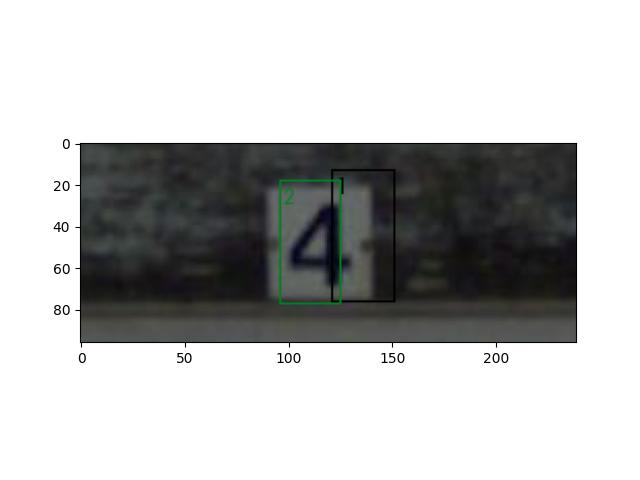
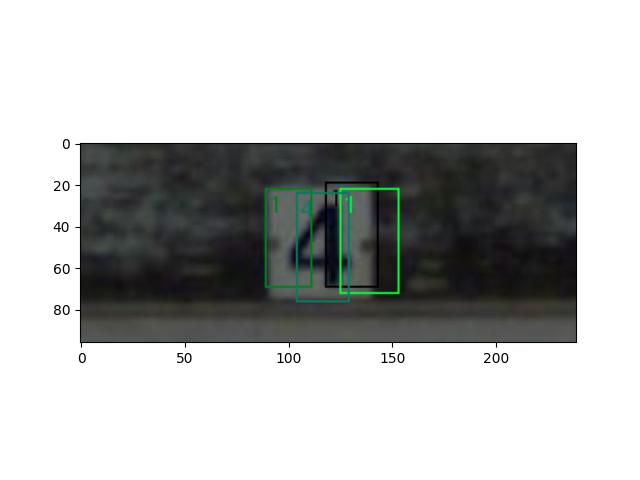
added dropout

Changed region(s): [[0.4062, 0.3438, 0.625, 0.6562]]

diff --git a/mini_yolov3/trainer.py b/mini_yolov3/trainer.py
@@ -110,8 +110,13 @@ class Trainer:
         os.makedirs(self.save_dir, exist_ok=True)
         checkpoints_dir = os.path.join(self.save_dir, "checkpoints")
         results_dir = os.path.join(self.save_dir, "results")
+        model_config_path = os.path.join(self.save_dir, "model_config.json")
         os.makedirs(checkpoints_dir, exist_ok=True)
         os.makedirs(results_dir, exist_ok=True)
+
+        # save model config
+        with open(model_config_path, "w") as f:
+            json.dump(self.model.config, f)
 
         loss_plot_path = os.path.join(self.save_dir, "loss.png")
 
@@ -182,13 +187,7 @@ class Trainer:
 
                     losses.append(loss.item())
 
-                    # plt.clf()
-                    # plt.title("Log Loss")
-                    # plt.semilogy(losses, label="Train Loss")
-                    # plt.savefig(loss_plot_path)
-
                 epoch_loss /= len(self.train_loader)
-                # losses.append(epoch_loss)
 
                 if has_val:
                     val_loss = calculate_loss(
@@ -219,6 +218,7 @@ class Trainer:
                 plt.legend()
                 plt.savefig(loss_plot_path)
 
+                # evaluate mAP
                 if (epoch + 1) % self.eval_every == 0:
                     tqdm.write(f"[INFO] Evals Epoch {epoch}")
                     epoch_eval_data = {}

diff --git a/mini_yolov3/model.py b/mini_yolov3/model.py
@@ -55,6 +55,7 @@ class YOLO(nn.Module):
         C: int,
         backbone: list,
         dense_layers: list[int],
+        dropout: float = 0.0,
     ):
         super().__init__()
         self.image_size = image_size
@@ -63,6 +64,7 @@ class YOLO(nn.Module):
         self.C = C
         self.backbone = backbone
         self.dense_layers = dense_layers
+        self.dropout = dropout
 
         assert len(backbone) > 0, "Backbone must have at least one layer"
         assert len(dense_layers) > 0, "Dense layers must have at least one layer"
@@ -93,6 +95,7 @@ class YOLO(nn.Module):
 
             feedforward.append(nn.Linear(in_channels, out_channels))
             feedforward.append(nn.LeakyReLU(0.1))
+            feedforward.append(nn.Dropout(self.dropout))
 
         in_channels = self.dense_layers[-1]
         out_channels = self.S * self.S * (5 * self.B + self.C)

diff --git a/scripts/detect.py b/scripts/detect.py
@@ -16,7 +16,7 @@ from torchvision.ops import box_convert
 import matplotlib.pyplot as plt
 
 sys.path.append("../")
-from mini_yolov3.model import MiniYoloV3
+from mini_yolov3.model import YOLO
 from mini_yolov3.utils import to_tensor, draw_bounding_boxes
 
 
@@ -82,7 +82,7 @@ def main(args):
     with open(args.model_config, "r") as f:
         model_config = json.load(f)
 
-    model = MiniYoloV3(**model_config)
+    model = YOLO(**model_config)
     image = load_image(args.image_path)
 
     resized_image = image.resize((model.image_size, model.image_size), Image.LANCZOS)
